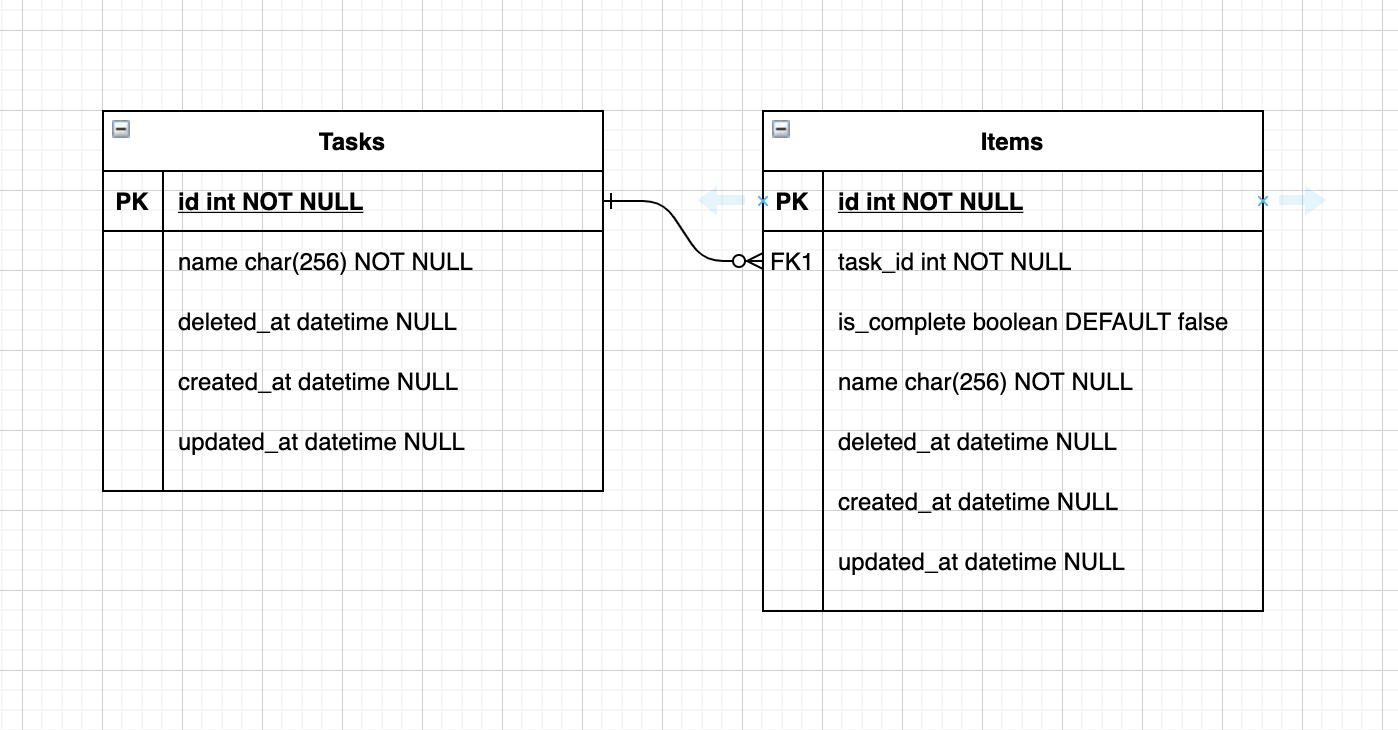
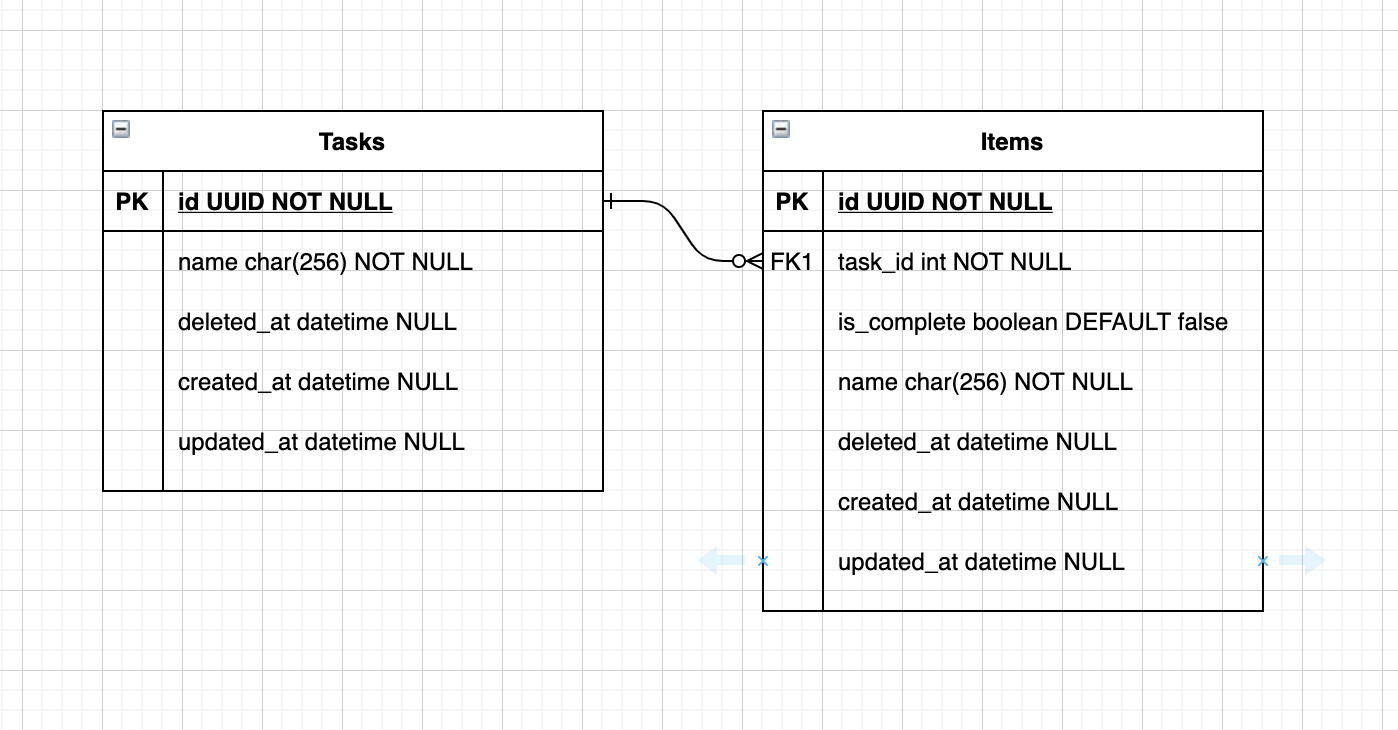
Updated Readme

diff --git a/README.md b/README.md
@@ -32,4 +32,4 @@ Github Actions is also setup and configured on the code base to handle continous
 
 The [POSTMAN COLLECTION](https://documenter.getpostman.com/view/13007176/TVzNHKUZ) for this project contains sample request and also sample responces to better understand the endpoint.
 
-![alt text](https://github.com/[username]/[reponame]/blob/[branch]/image.jpg?raw=true)
+![Entity Relational Diagram (DB Structure)](https://github.com/codeInBit/todo-list-application/blob/master/Entity-Relational%20Diagram.png)
